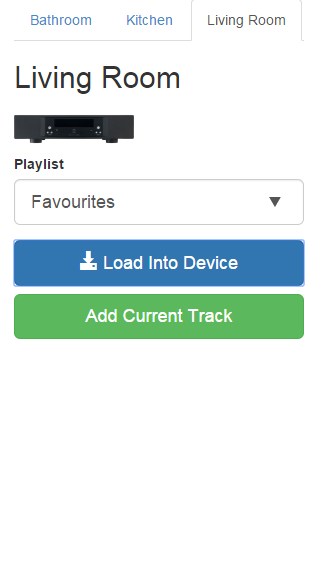
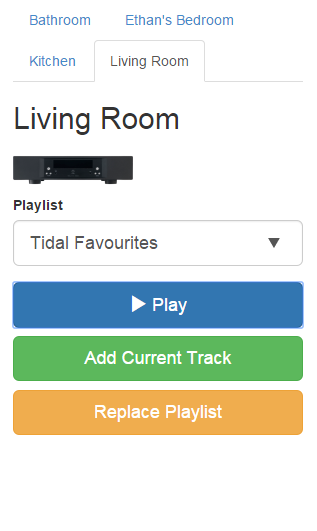
Updated playlist screenshots

diff --git a/README.md b/README.md
@@ -54,7 +54,8 @@ http://localhost:18080/playlists
 
 *Dashboard for managing playlists on a DS*
 
-![Playlist for a DS](https://raw.githubusercontent.com/bazwilliams/upnp-playlist-service/master/docs/playlist-ui-screenshot.png)
+![Existing Playlist for a DS](https://raw.githubusercontent.com/bazwilliams/upnp-playlist-service/master/docs/playlist-ui-screenshot.png)
+![Creating Playlist for a DS](https://raw.githubusercontent.com/bazwilliams/upnp-playlist-service/master/docs/playlist-ui-create-screenshot.png)
 
 ## API
 
